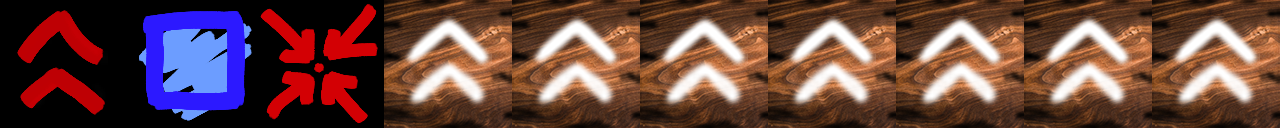
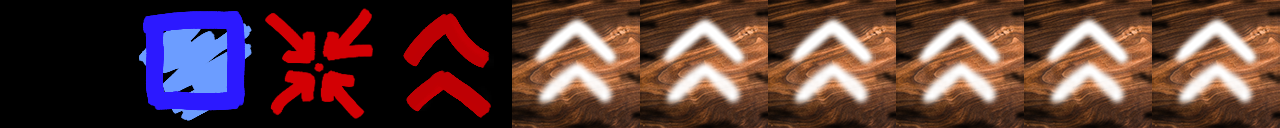
First 4 Levels

diff --git a/part1.html b/part1.html
@@ -17,7 +17,7 @@
     let cJump = true;
     let airTime = 0;
     // level 0 for testing
-    let level = 1;
+    let level = 4;
     let levelText;
     let cursorText;
     let safeSpotX;
@@ -25,6 +25,7 @@
     let moldChainA = 3;
     let rightMold;
     let breakPlat1Touched;
+    let mushTouched = false;
     let onBreakPlat;
     let blueCollider;
     let leverInt = false;
@@ -244,7 +245,7 @@
         });
 
         // collision and overlaps
-        this.physics.add.collider(player, platforms);
+        this.physics.add.collider(player, platforms, platTouch, null, this);
         this.physics.add.collider(player, breakPlat1, breakPlat1Check, null, this);
         blueCollider = this.physics.add.collider(player, bluePlatforms);
         this.physics.add.overlap(player, goal, goalReached, null, this);
@@ -260,7 +261,7 @@
 
         // text
         testText = this.add.text(16, 20, 'Blue: ', {fontSize: '32px', fill: '#ffffff'})
-        levelText = this.add.text(16, 50, 'Level: 1', {fontSize: '32px', fill: '#ffffff'})
+        levelText = this.add.text(sky.x + sky.width/2 - 130, sky.y - sky.height/2 + 70, 'Level: 1', {fontSize: '32px', fill: '#000000'})
         cursorText = this.add.text(16, 80, 'Mouse: ', {fontSize: '32px', fill: '#ffffff'})
         
 
@@ -271,6 +272,14 @@
     function breakPlat1Check(){
         breakPlat1Touched = true;
         onBreakPlat = true;
+    }
+
+    function mushCheck(){
+        mushTouched = true;
+    }
+
+    function platTouch(){
+        mushTouched = false;
     }
 
     function leverFlipped(){
@@ -291,7 +300,6 @@
         // if leverDir === left ?, then use leverIconD, else: use leverIconU
         switch(leverDir === 'down' ? leverTypeD : leverTypeU){
             case 0:
-                extRules.doubleJump = true;
                 break;
             case 1:
                 extRules.colorBlue = true;
@@ -301,6 +309,9 @@
                 shrinkLatch = true;
                 player.setBounce(0.1);
                 player.body.setGravityY(-250);
+                break;
+            case 4:
+                extRules.doubleJump = true;
                 break;
         }
 
@@ -351,7 +362,7 @@
         // re-enables the breakaway platform, 0 0 is ignored because of first parameter
         breakPlat1.enableBody(false, 0, 0, true, true);
         key.enableBody(false, 0, 0, true, true);
-        
+
         // moves all objects out of view
         playerPos.y = -1900;
         platPos.y1 = -1900;
@@ -402,7 +413,7 @@
                 leverTypeU = 1;
                 break;
             case 1:
-                playerPos.x = -250;
+                playerPos.x = -300;
                 playerPos.y = -50;
                 platSize.w1 = 130;
                 platSize.h1 = 50;
@@ -412,52 +423,100 @@
                 platSize.h3 = 30;
                 platSize.w4 = 130;
                 platSize.h4 = 50;
-                platPos.x1 = -250;
+                platPos.x1 = -300;
                 platPos.y1 = 5;
-                platPos.x2 = -75;
+                platPos.x2 = -85;
                 platPos.y2 = 0;
-                platPos.x3 = 75;
+                platPos.x3 = 85;
                 platPos.y3 = 0;
-                platPos.x4 = 250;
+                platPos.x4 = 300;
                 platPos.y4 = 5;
-                goalPos.x = -350;
+                goalPos.x = 300;
                 goalPos.y = -100;
                 goalOpen = true;
                 leverPos.x = 1050;
                 leverPos.y = -220;
-                leverTypeD = 0;
                 leverTypeU = 1;
+                leverTypeD = 0;
                 break;
             case 2:
-                playerPos.x = 0;
-                playerPos.y = 175;
-                platPos.x1 = -300;
+                playerPos.x = 300;
+                playerPos.y = 50;
+                platSize.w1 = 130;
+                platSize.h1 = 25;
+                platSize.w2 = 80;
+                platSize.h2 = 35;
+                platSize.w3 = 130;
+                platSize.h3 = 25;
+                platSize.w4 = 80;
+                platSize.h4 = 35;
+                platPos.x1 = 300;
                 platPos.y1 = 150;
-                platPos.x2 = 300;
-                platPos.y2 = 150;
+                platPos.x2 = 150;
+                platPos.y2 = 175;
                 platPos.x3 = 0;
-                platPos.y3 = -100;
-                breakPlatPos.x1 = 400;
-                breakPlatPos.y1 = 20;
-                colorPlatPos.blueX1 = 300;
-                colorPlatPos.blueY1 = -50;
-                keyPos.x = 250;
-                keyPos.y = -100;
-                goalPos.x = 0;
-                goalPos.y = -190;
-                goalOpen = false;
-                mushPos.x = -220;
-                mushPos.y = 70;
-                moldPos.x1 = -130;
-                moldPos.y = -112;
+                platPos.y3 = 150;
+                platPos.x4 = -150;
+                platPos.y4 = 175;
+                goalPos.x = -150;
+                goalPos.y = 100;
+                goalOpen = true;
+                moldPos.x1 = 125;
+                moldPos.y = 155;
                 moldChainA = 3;
                 leverPos.x = 1050;
                 leverPos.y = -220;
-                leverTypeD = 2;
-                leverTypeU = 0;
+                leverTypeU = 1;
+                leverTypeD = 0;
                 break;
             case 3:
-
+                playerPos.x = -300;
+                playerPos.y = 180;
+                platSize.w1 = 270;
+                platSize.h1 = 25;
+                platPos.x1 = -190;
+                platPos.y1 = 230;
+                platSize.w2 = 50
+                platSize.h2 = 350;
+                platPos.x2 = 70;
+                platPos.y2 = 100;
+                platSize.w3 = 230;
+                platSize.h3 = 25;
+                platPos.x3 = -230;
+                platPos.y3 = -140;
+                mushPos.x = -80;
+                mushPos.y = 206;
+                goalOpen = true;
+                goalPos.x = -300;
+                goalPos.y = -200;
+                leverPos.x = 1050;
+                leverPos.y = -220;
+                leverTypeU = 1;
+                leverTypeD = 0;
+                break;
+            case 4:
+                playerPos.x = -300;
+                playerPos.y = 20;
+                platSize.w1 = 700;
+                platSize.h1 = 25;
+                platPos.x1 = 0;
+                platPos.y1 = 100;
+                platSize.w2 = 700;
+                platSize.h2 = 25;
+                platPos.x2 = 0;
+                platPos.y2 = -120;
+                mushPos.x = 0;
+                mushPos.y = 75;
+                moldChainA = 5;
+                moldPos.x1 = -50;
+                moldPos.y = -108;
+                goalOpen = true;
+                goalPos.x = 280;
+                goalPos.y = 0;
+                leverPos.x = 1050;
+                leverPos.y = -220;
+                leverTypeU = 1;
+                leverTypeD = 0;
                 break;
         }
         // move player
@@ -478,7 +537,7 @@
         mushroom.setPosition(sky.x + mushPos.x, sky.y + mushPos.y, 'mushroom');
 
         // main ground
-        platforms.create(sky.x, (sky.y + sky.displayHeight/2 - 20), 'ground').setDisplaySize(936, 40).refreshBody();
+        // platforms.create(sky.x, (sky.y + sky.displayHeight/2 - 20), 'ground').setDisplaySize(936, 40).refreshBody();
 
         // other platforms
         plat1 = platforms.create(sky.x + platPos.x1, sky.y + platPos.y1, 'ground').setDisplaySize(platSize.w1, platSize.h1).refreshBody();
@@ -567,6 +626,8 @@
             player.setVelocityY(-700);
             cJump = false;
         }
+
+        mushCheck();
     }
 
     function moldTouch(){
@@ -592,7 +653,7 @@
 
         // SAFESPOT
         // safespot only taken if player is far enough from mold edge
-        if (player.body.touching.down && ((player.x <= (moldPos.x1 - 12 - 100)) || (player.x >= (rightMold + 12 + 100))) && !breakPlat1Touched){
+        if (player.body.touching.down && ((player.x <= (moldPos.x1 - 12 - 100)) || (player.x >= (rightMold + 12 + 100))) && !breakPlat1Touched && !mushTouched){
             safeSpotX = player.x;
             safeSpotY = player.y;
         }
